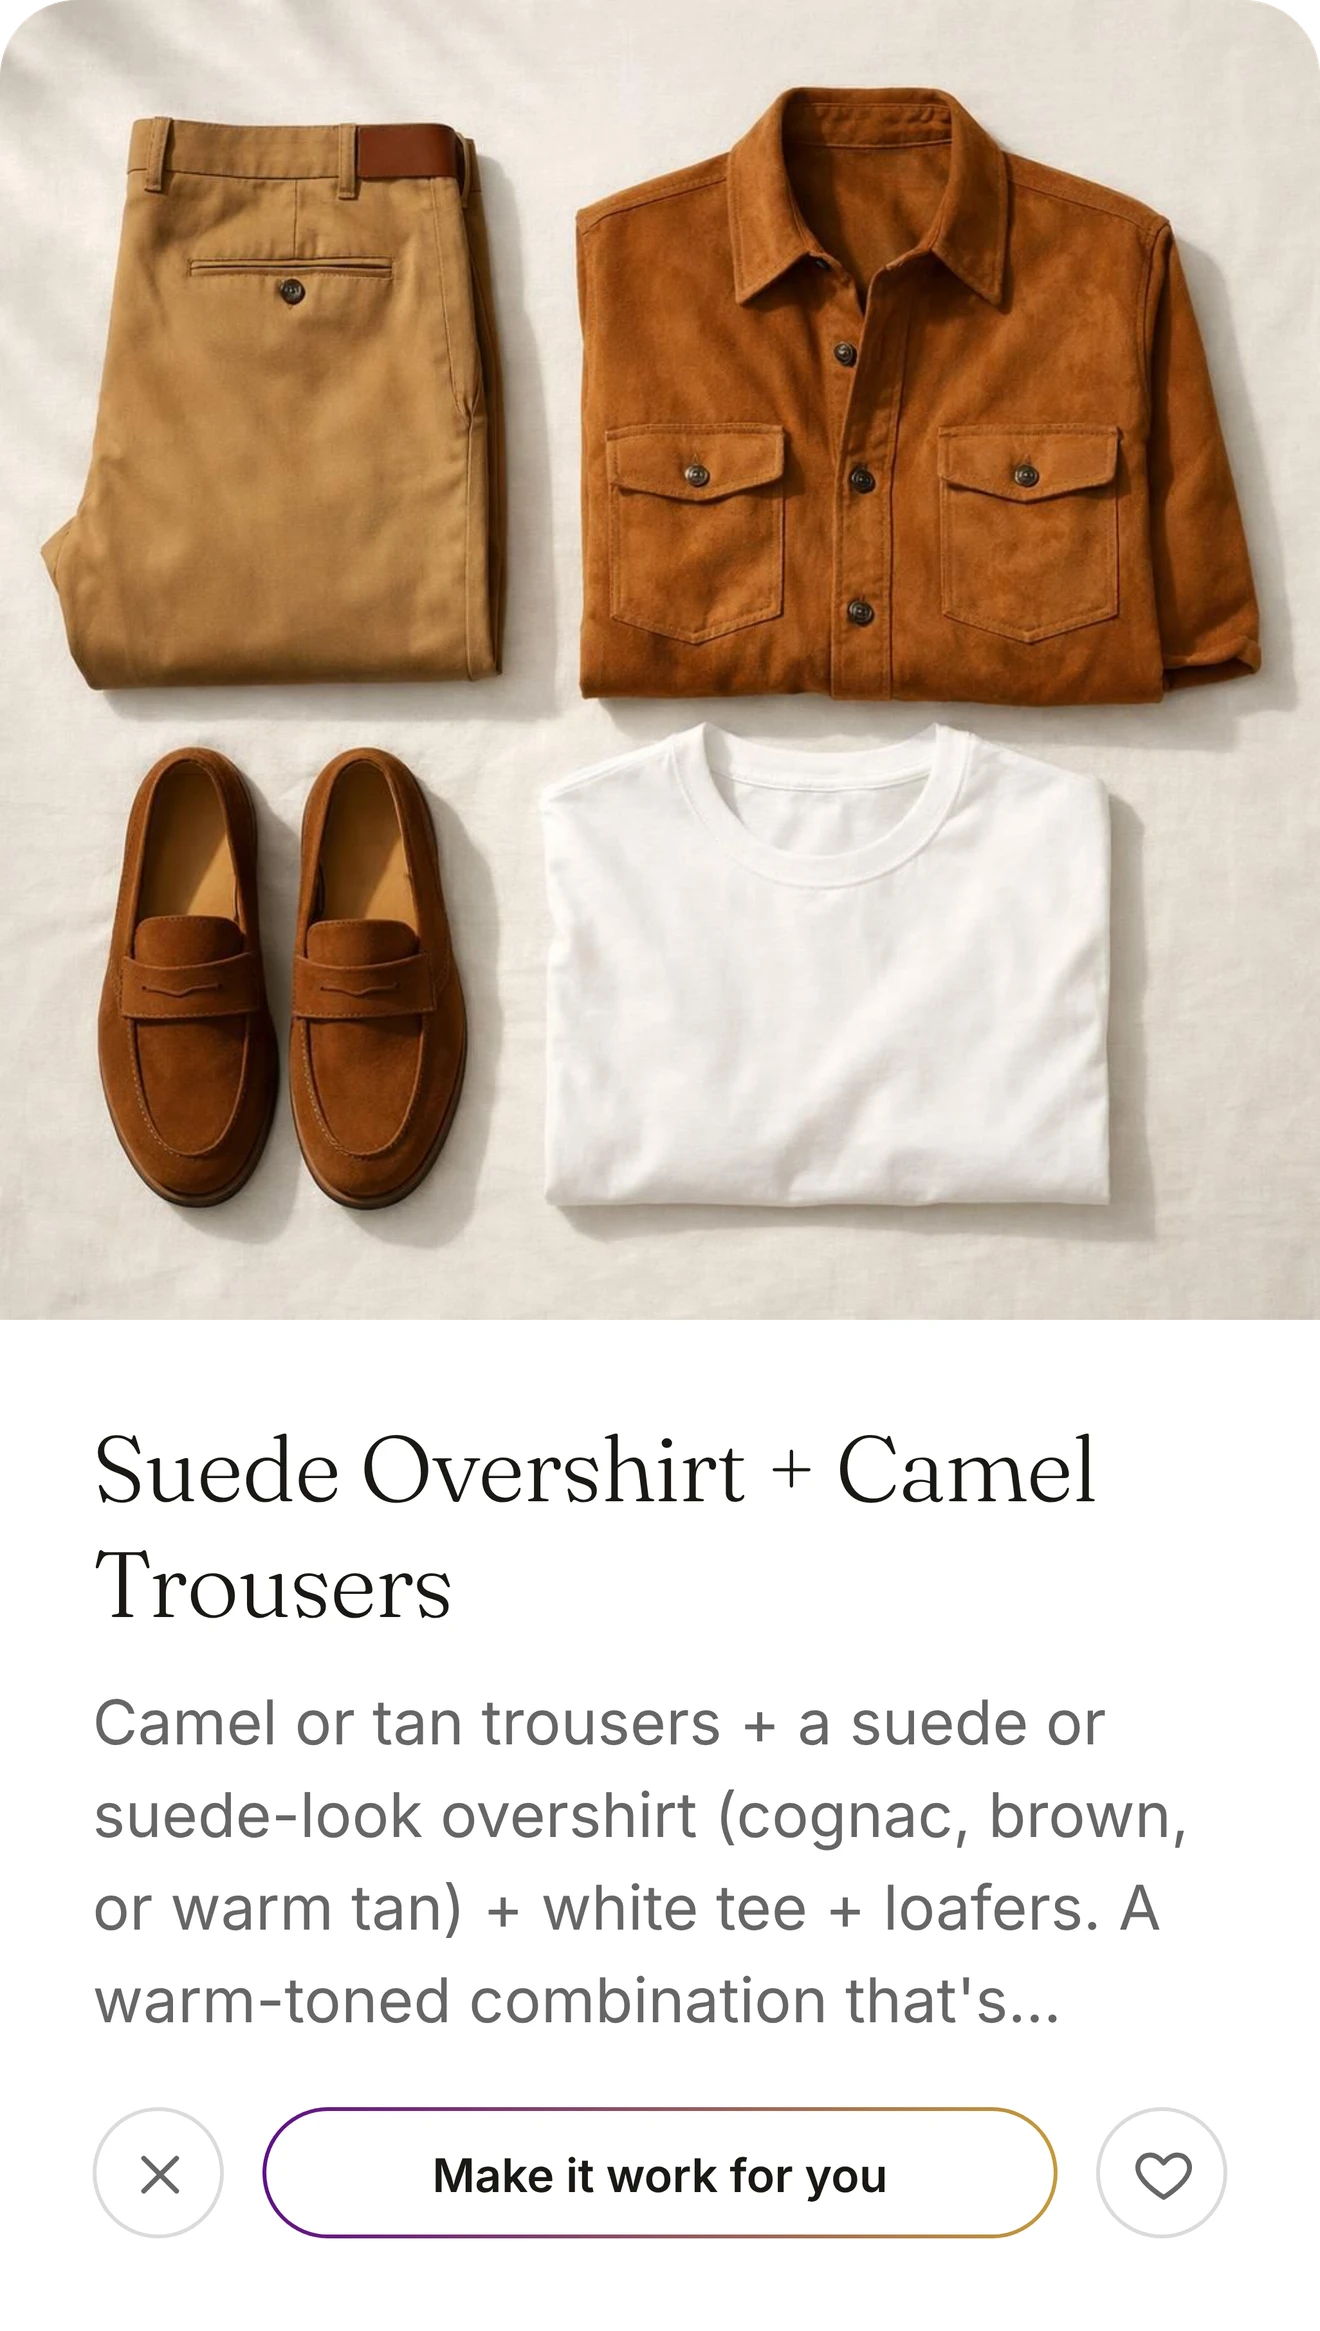
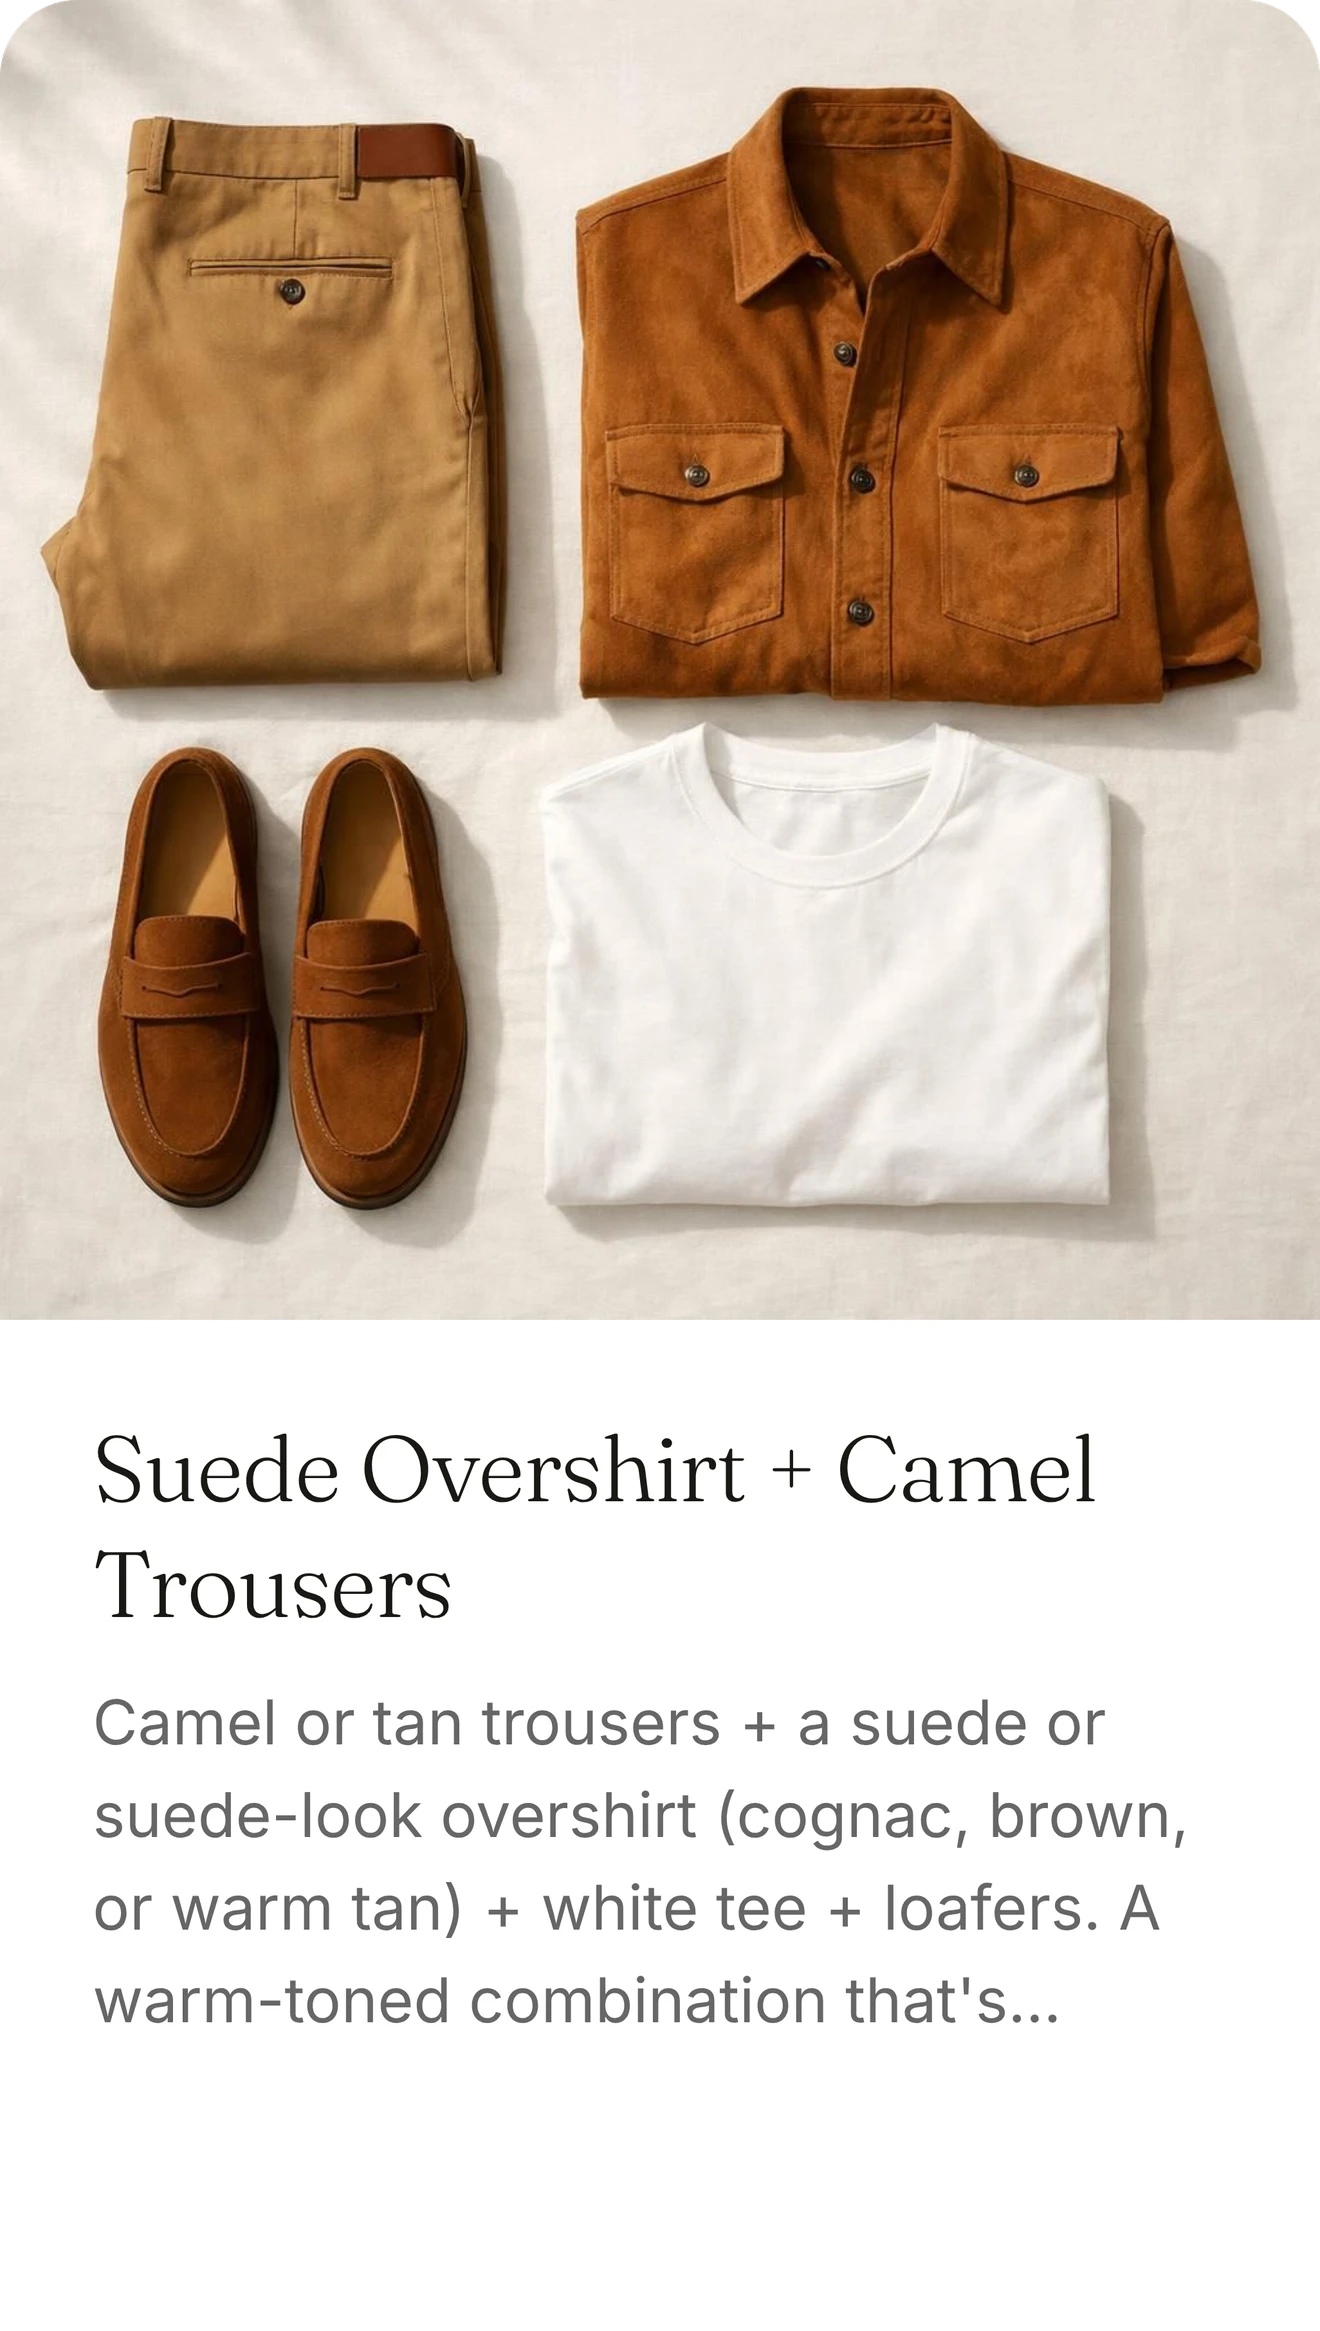
VibeFit: new card + details screen; card text fades as it grows so only the photo hands over
Claude-Session: https://claude.ai/code/session_01DgXCbF1Q3YinTYdPZ8wfJm

diff --git a/js/app.js b/js/app.js
@@ -1173,6 +1173,10 @@ function DigitalPage(route) {
       const t = ease(ramp(f, 0.1, 0.3)), sc = lerp(I.card.w / I.holeW, 1, t);
       card.style.transform = `translate3d(${lerp(I.card.x, 0, t) * k}px, ${(lerp(I.card.y, I.endY, t) - I.holeTop) * k}px, 0) scale(${sc})`;
       card.style.opacity = 1 - ramp(f, 0.34, 0.35);
+      // The card's own text fades as it grows (it's laid out differently from the details screen),
+      // leaving just the photo to hand over.
+      card.style.setProperty('--ta', (1 - ramp(f, 0.14, 0.26)).toFixed(3));
+      card.style.setProperty('--pf-cut', `${(I.photoFrac || 1) * 100}%`);
     }
     im.style.opacity = ramp(f, 0.31, 0.34);
     $('.cs-scroll-sides', sec).style.opacity = 1 - ramp(f, 0.1, 0.24);

diff --git a/css/site.css b/css/site.css
@@ -699,3 +699,4 @@ body.nav-away .filter, body.pnav-on .filter { opacity: 0; transform: translateY(
 
 .cs-scroll-card { position: absolute; left: 0; top: 0; width: 100%; height: auto; transform-origin: 0 0; z-index: 2; will-change: transform, opacity; }
 .cs-scroll.has-intro .cs-scroll-main { position: relative; z-index: 3; }
+.cs-scroll-card { -webkit-mask-image: linear-gradient(#000 0 var(--pf-cut, 100%), rgba(0,0,0,var(--ta, 1)) var(--pf-cut, 100%)); mask-image: linear-gradient(#000 0 var(--pf-cut, 100%), rgba(0,0,0,var(--ta, 1)) var(--pf-cut, 100%)); }

diff --git a/js/content.js b/js/content.js
@@ -310,7 +310,8 @@ export const DIGITAL = [
               "y": 678,
               "w": 1150
             },
-            "endY": 362
+            "endY": 362,
+            "photoFrac": 0.5662
           }
         }
       },
